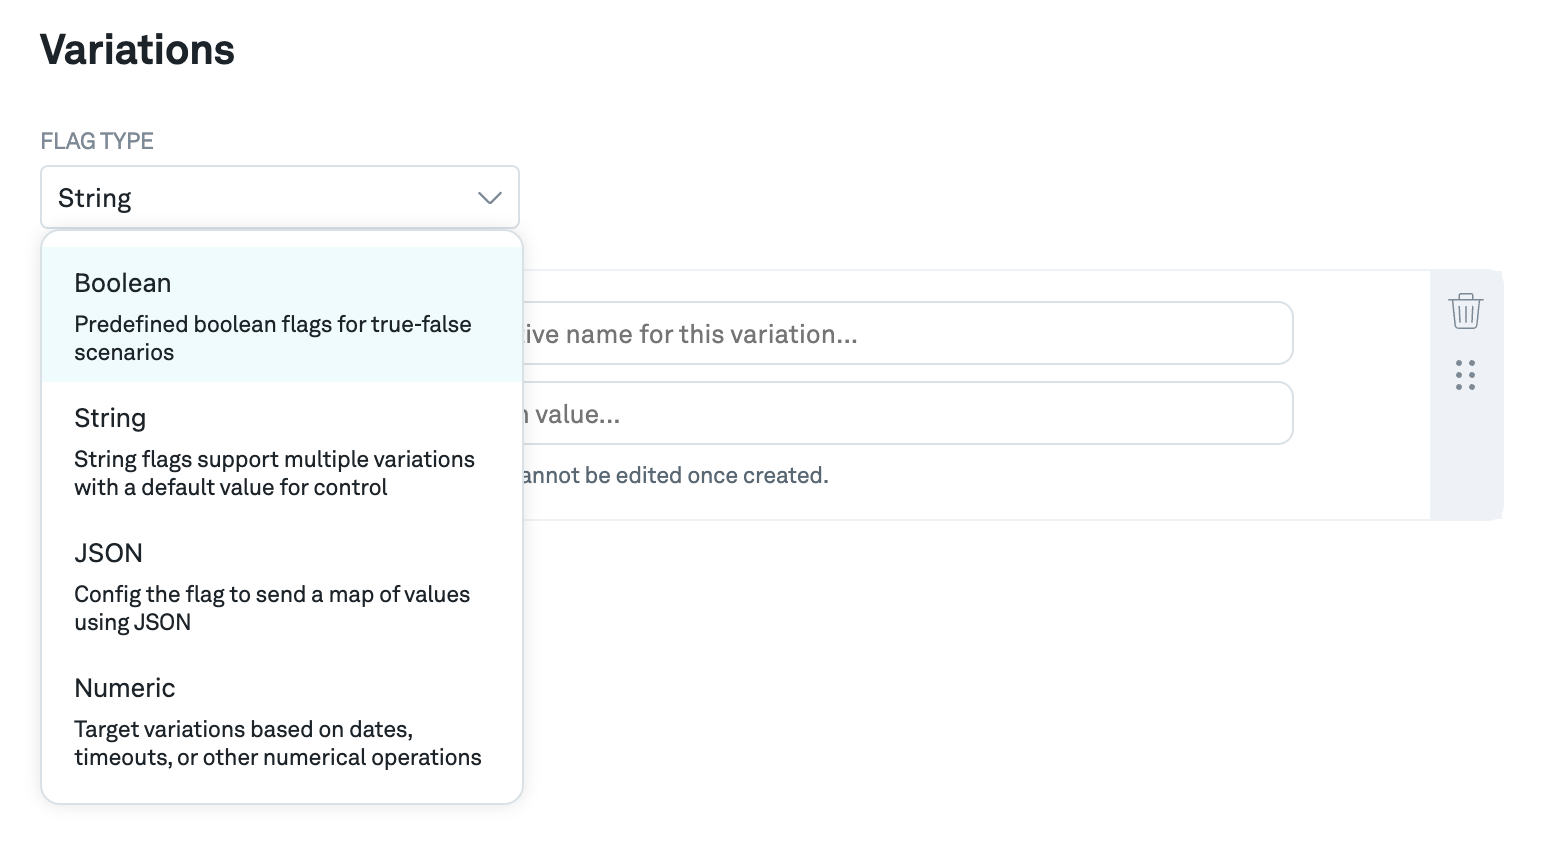
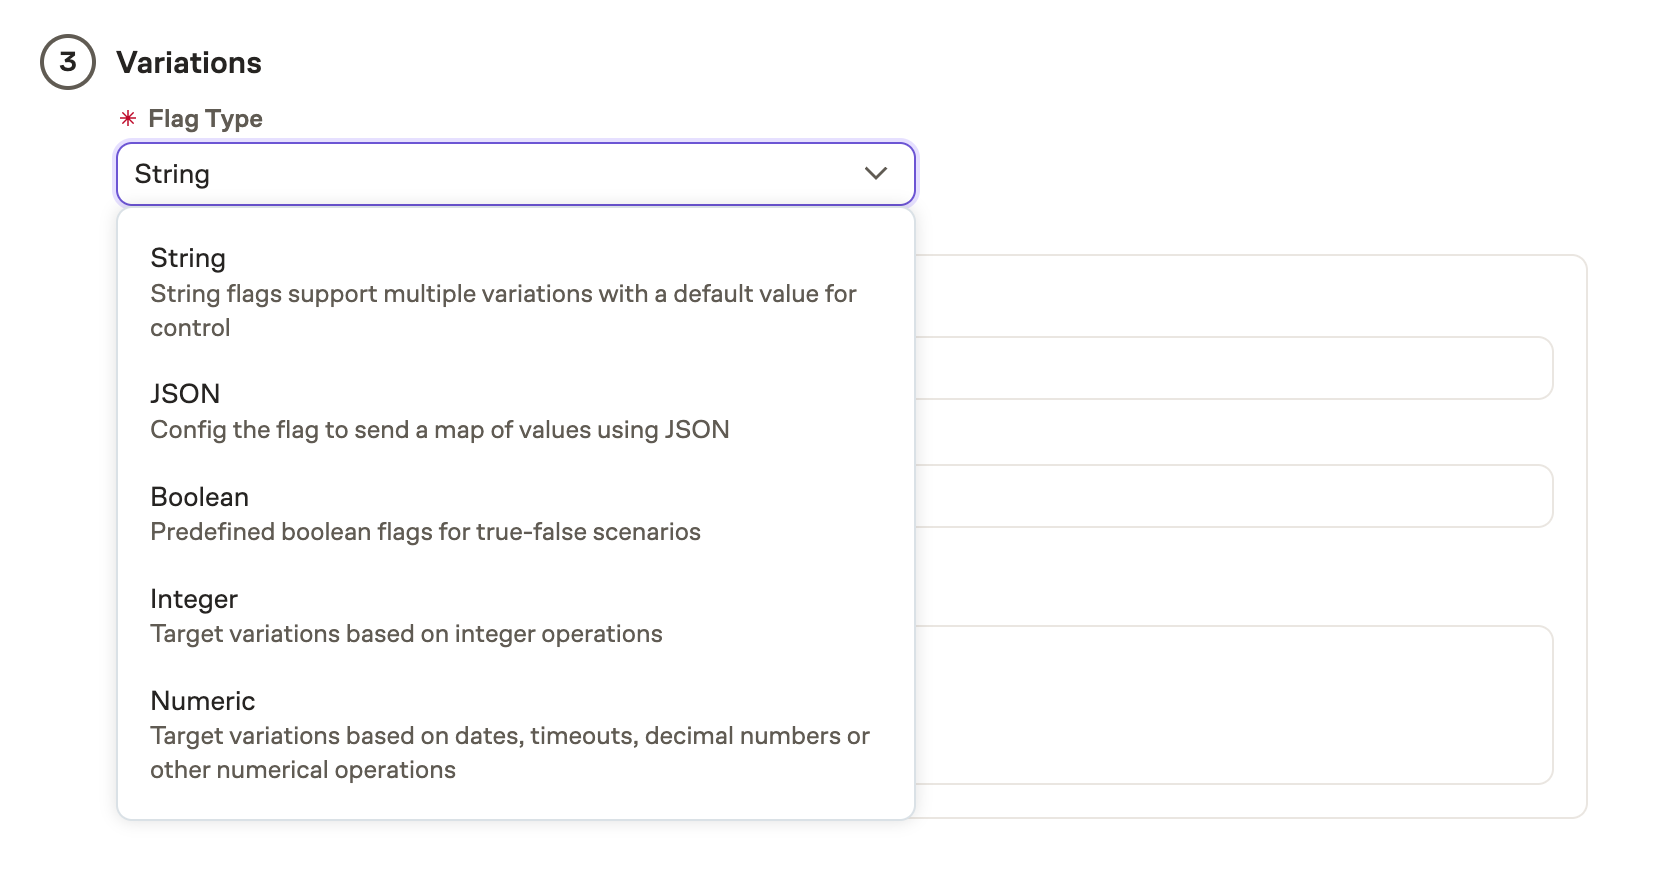
feat: Add integer type flag to docs

diff --git a/docs/feature-flagging/concepts/flag-variations.md b/docs/feature-flagging/concepts/flag-variations.md
@@ -25,6 +25,10 @@ String flags have a limit of 65KB. Strings are UTF-8 encoded, so certain charact
 
 You can use escape sequences in string flag values.
 
+## Integer flags
+
+Integer flags are recommended when you want to target variations based on integer operations.
+
 ## Numeric flags
 
 Numeric flags are recommended when you want to target variations based on dates, timeouts, or other numerical operations.
